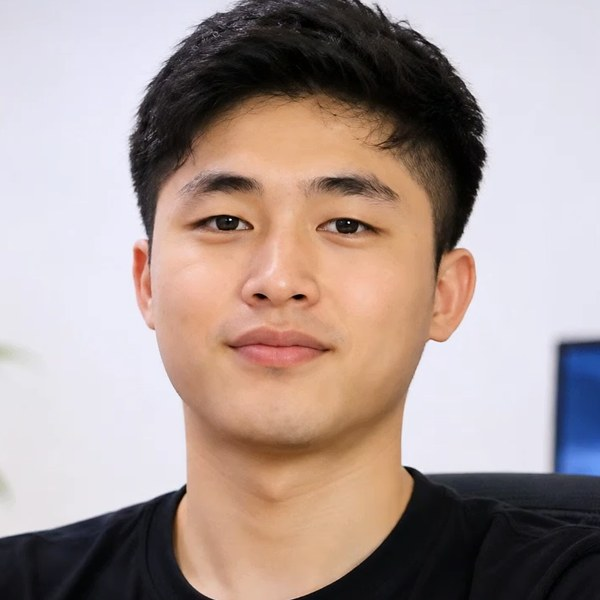
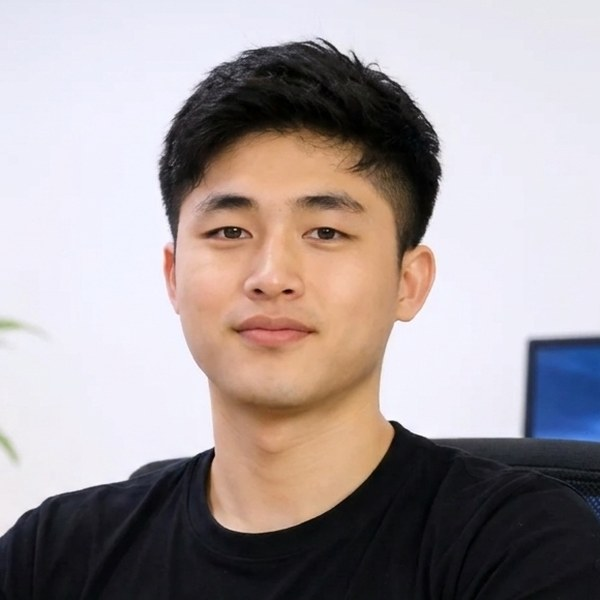
New profile photo in a bigger frame

diff --git a/index.html b/index.html
@@ -319,7 +319,7 @@ section { position: relative; }
 .letter .title { font-size: clamp(2rem, 4vw, 2.7rem); margin-bottom: 1.1rem; }
 .letter .title::after { margin-left: 0; }
 [data-theme="dark"] .letter, [data-theme="dark"] #about .stat { filter: brightness(0.9) sepia(0.18); }
-#about .photo { width: 240px; height: 290px; border-radius: 2px; border: 11px solid #F5EBD3; border-bottom-width: 30px; box-shadow: 0 20px 40px rgba(0,0,0,0.55), inset 0 0 0 1px rgba(96,64,30,0.3); transform: rotate(-3.2deg); filter: sepia(0.22) saturate(0.92); transition: transform 0.4s ease, filter 0.4s ease; }
+#about .photo { width: 300px; height: 364px; border-radius: 2px; border: 13px solid #F5EBD3; border-bottom-width: 36px; box-shadow: 0 20px 40px rgba(0,0,0,0.55), inset 0 0 0 1px rgba(96,64,30,0.3); transform: rotate(-3.2deg); filter: sepia(0.22) saturate(0.92); transition: transform 0.4s ease, filter 0.4s ease; }
 #about .photo:hover { transform: rotate(-1deg) scale(1.03); filter: none; }
 #about .stat { border: 0; border-radius: 3px; -webkit-backdrop-filter: none; backdrop-filter: none; }
 #about .stat:nth-child(1) { transform: rotate(-1.1deg); }
@@ -356,7 +356,7 @@ section { position: relative; }
 [data-theme="dark"] #experience .sec-bg .fog { opacity: 0.1; }
 
 /* ABOUT */
-.about { display: grid; grid-template-columns: 262px 1fr; gap: 3.5rem; align-items: center; }
+.about { display: grid; grid-template-columns: 310px 1fr; gap: 3.5rem; align-items: center; }
 .photo { width: 250px; height: 250px; border-radius: 50%; object-fit: cover; border: 5px solid var(--card); box-shadow: 0 0 0 3px var(--gold), 12px 12px 0 var(--coral); display: block; }
 .bio p + p { margin-top: 0.9rem; }
 .bio { color: var(--ink); font-size: 1rem; font-weight: 500; }
@@ -505,7 +505,7 @@ footer small { font-size: 0.78rem; font-weight: 500; opacity: 0.8; }
   .timeline { padding-left: 1.5rem; }
   .job::before { left: calc(-1.5rem - 10px); }
   .about { grid-template-columns: 1fr; gap: 2.4rem; justify-items: center; }
-  #about .photo { width: 200px; height: 242px; }
+  #about .photo { width: 240px; height: 291px; }
   .letter { padding: 1.7rem 1.4rem 1.5rem; transform: none; }
   #about .wrap, #technology .wrap, #projects .wrap { padding-top: 6rem; padding-bottom: 6rem; }
 }
@@ -605,7 +605,7 @@ footer small { font-size: 0.78rem; font-weight: 500; opacity: 0.8; }
   <div class="wrap">
     <div class="body">
       <div class="about r">
-        <img class="photo" src="assets/profile.webp?v=2" alt="Jaed Nakpil, Senior AI Engineer in the Philippines" width="594" height="718">
+        <img class="photo" src="assets/profile.webp?v=3" alt="Jaed Nakpil, Senior AI Engineer in the Philippines" width="495" height="600">
         <div class="letter">
           <span class="chap">Umaga · Morning</span>
           <h2 class="title">About Me</h2>
